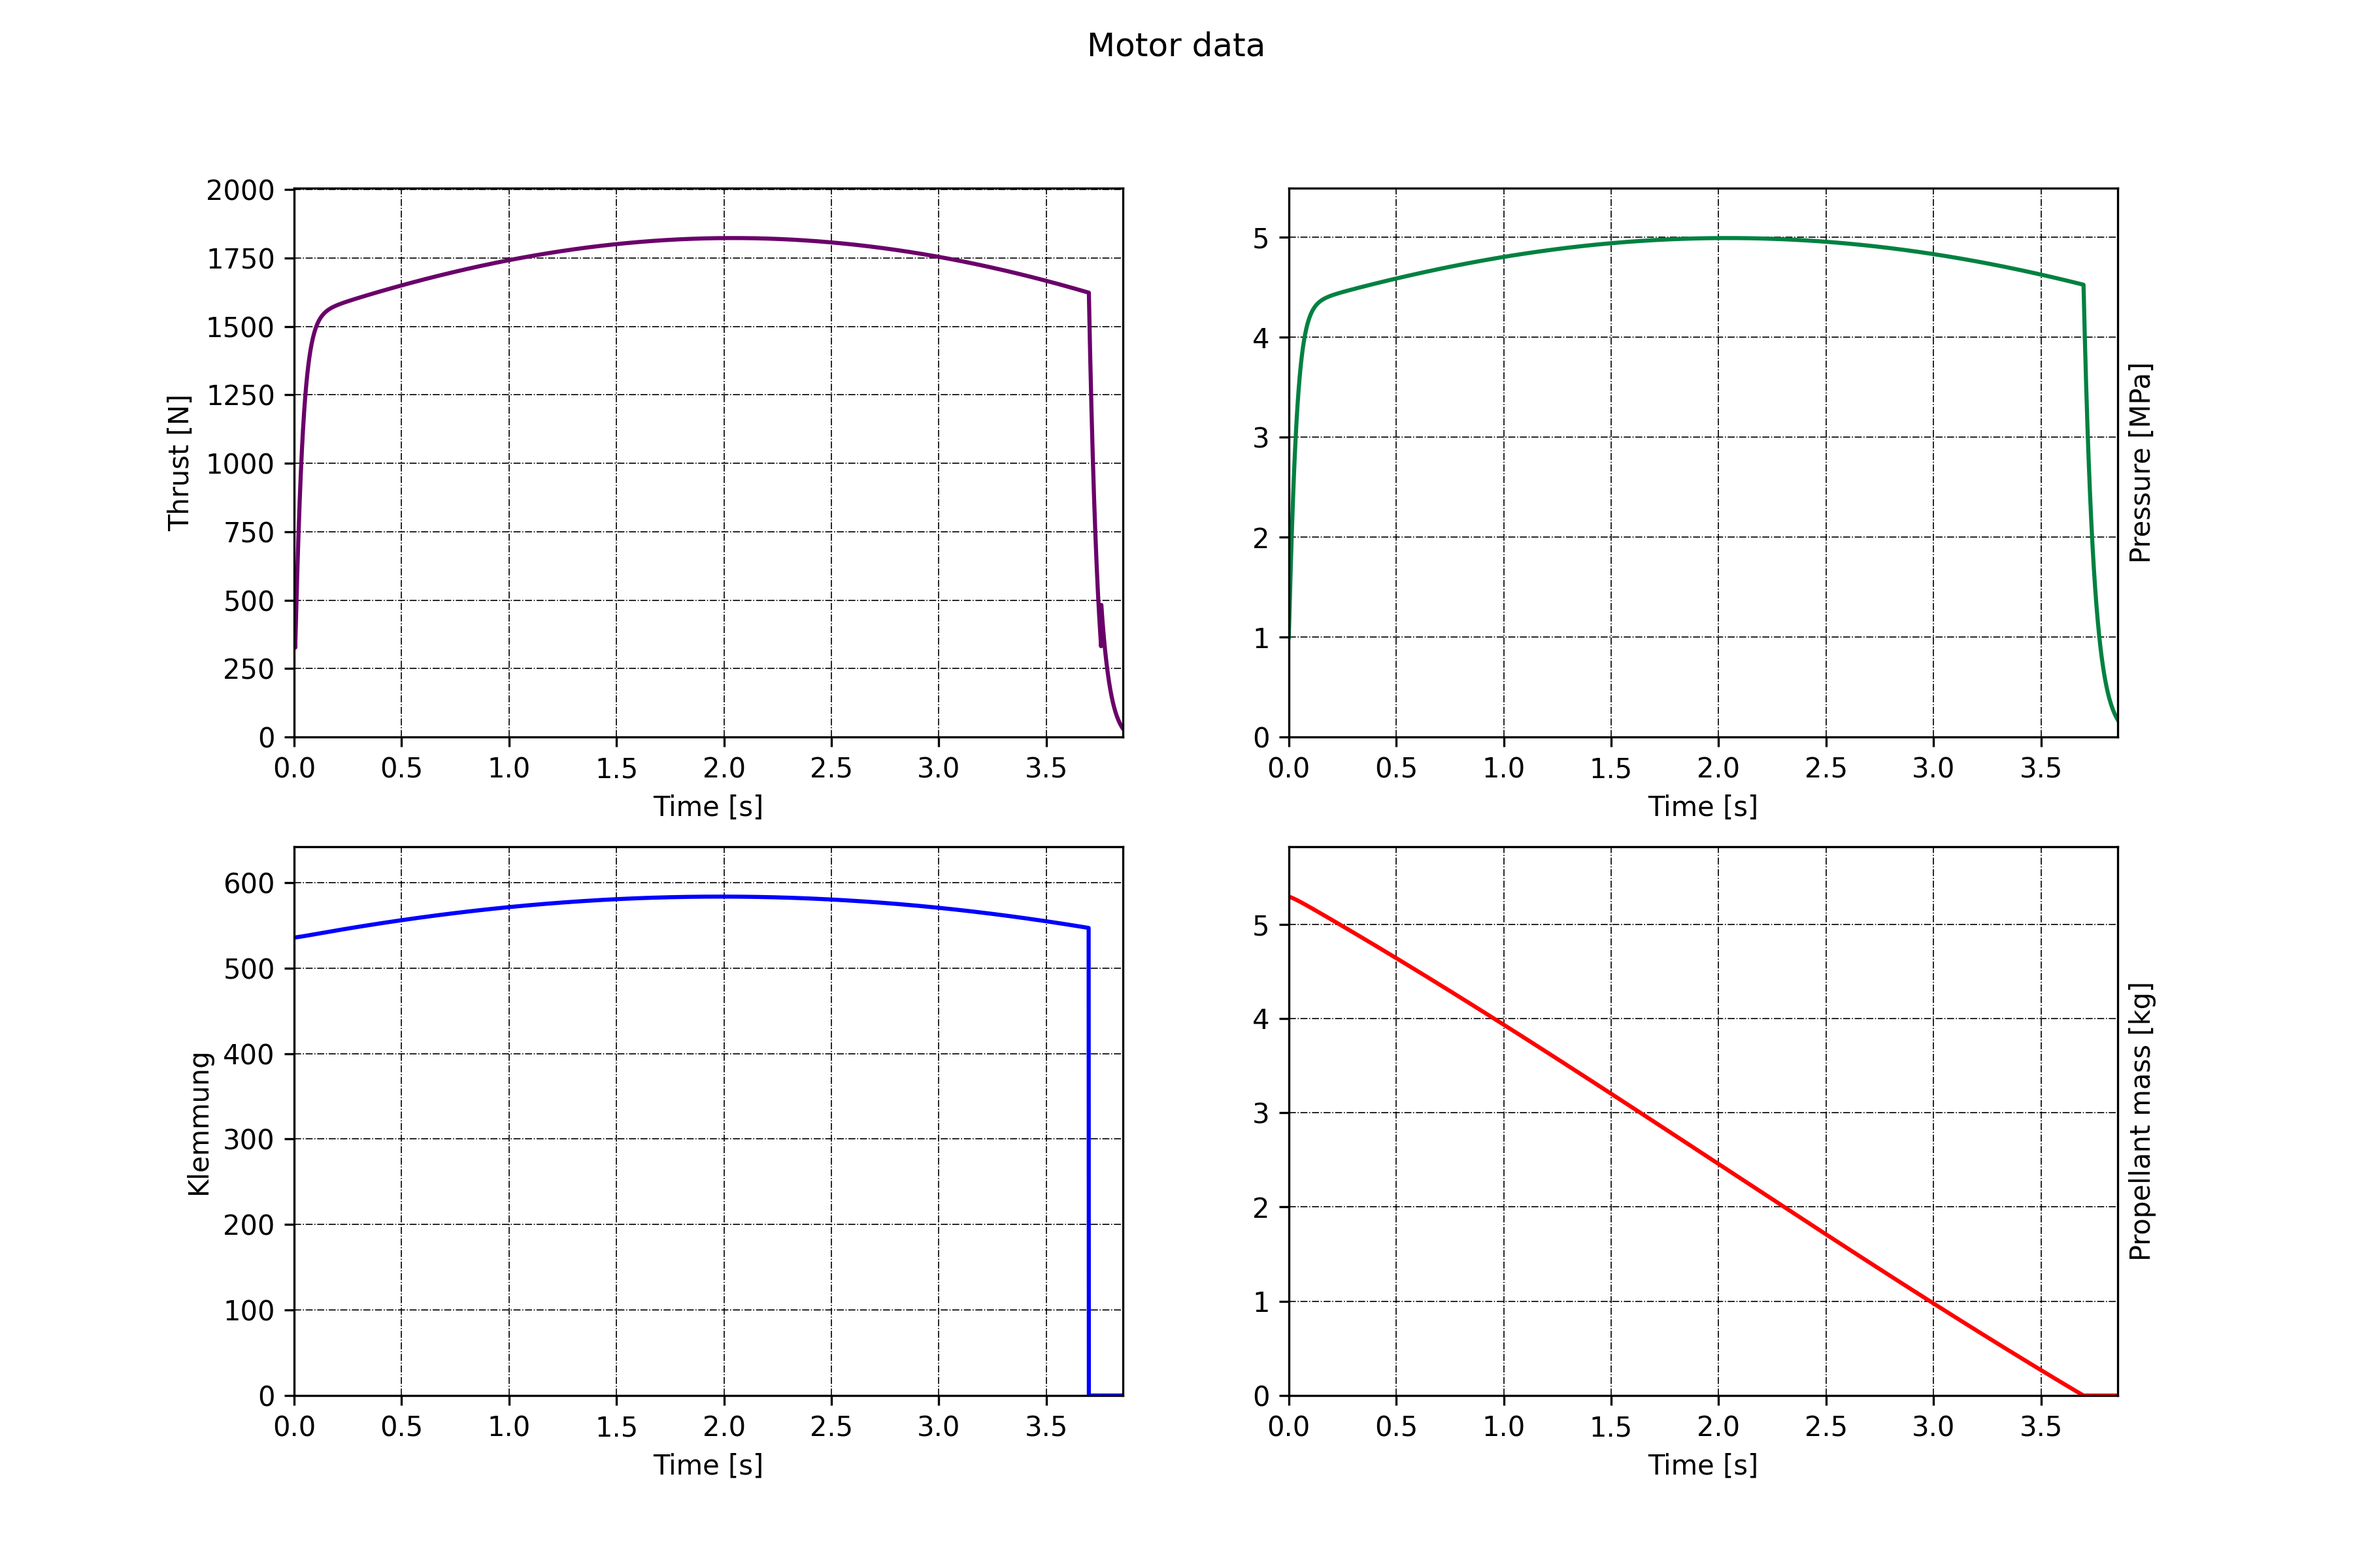
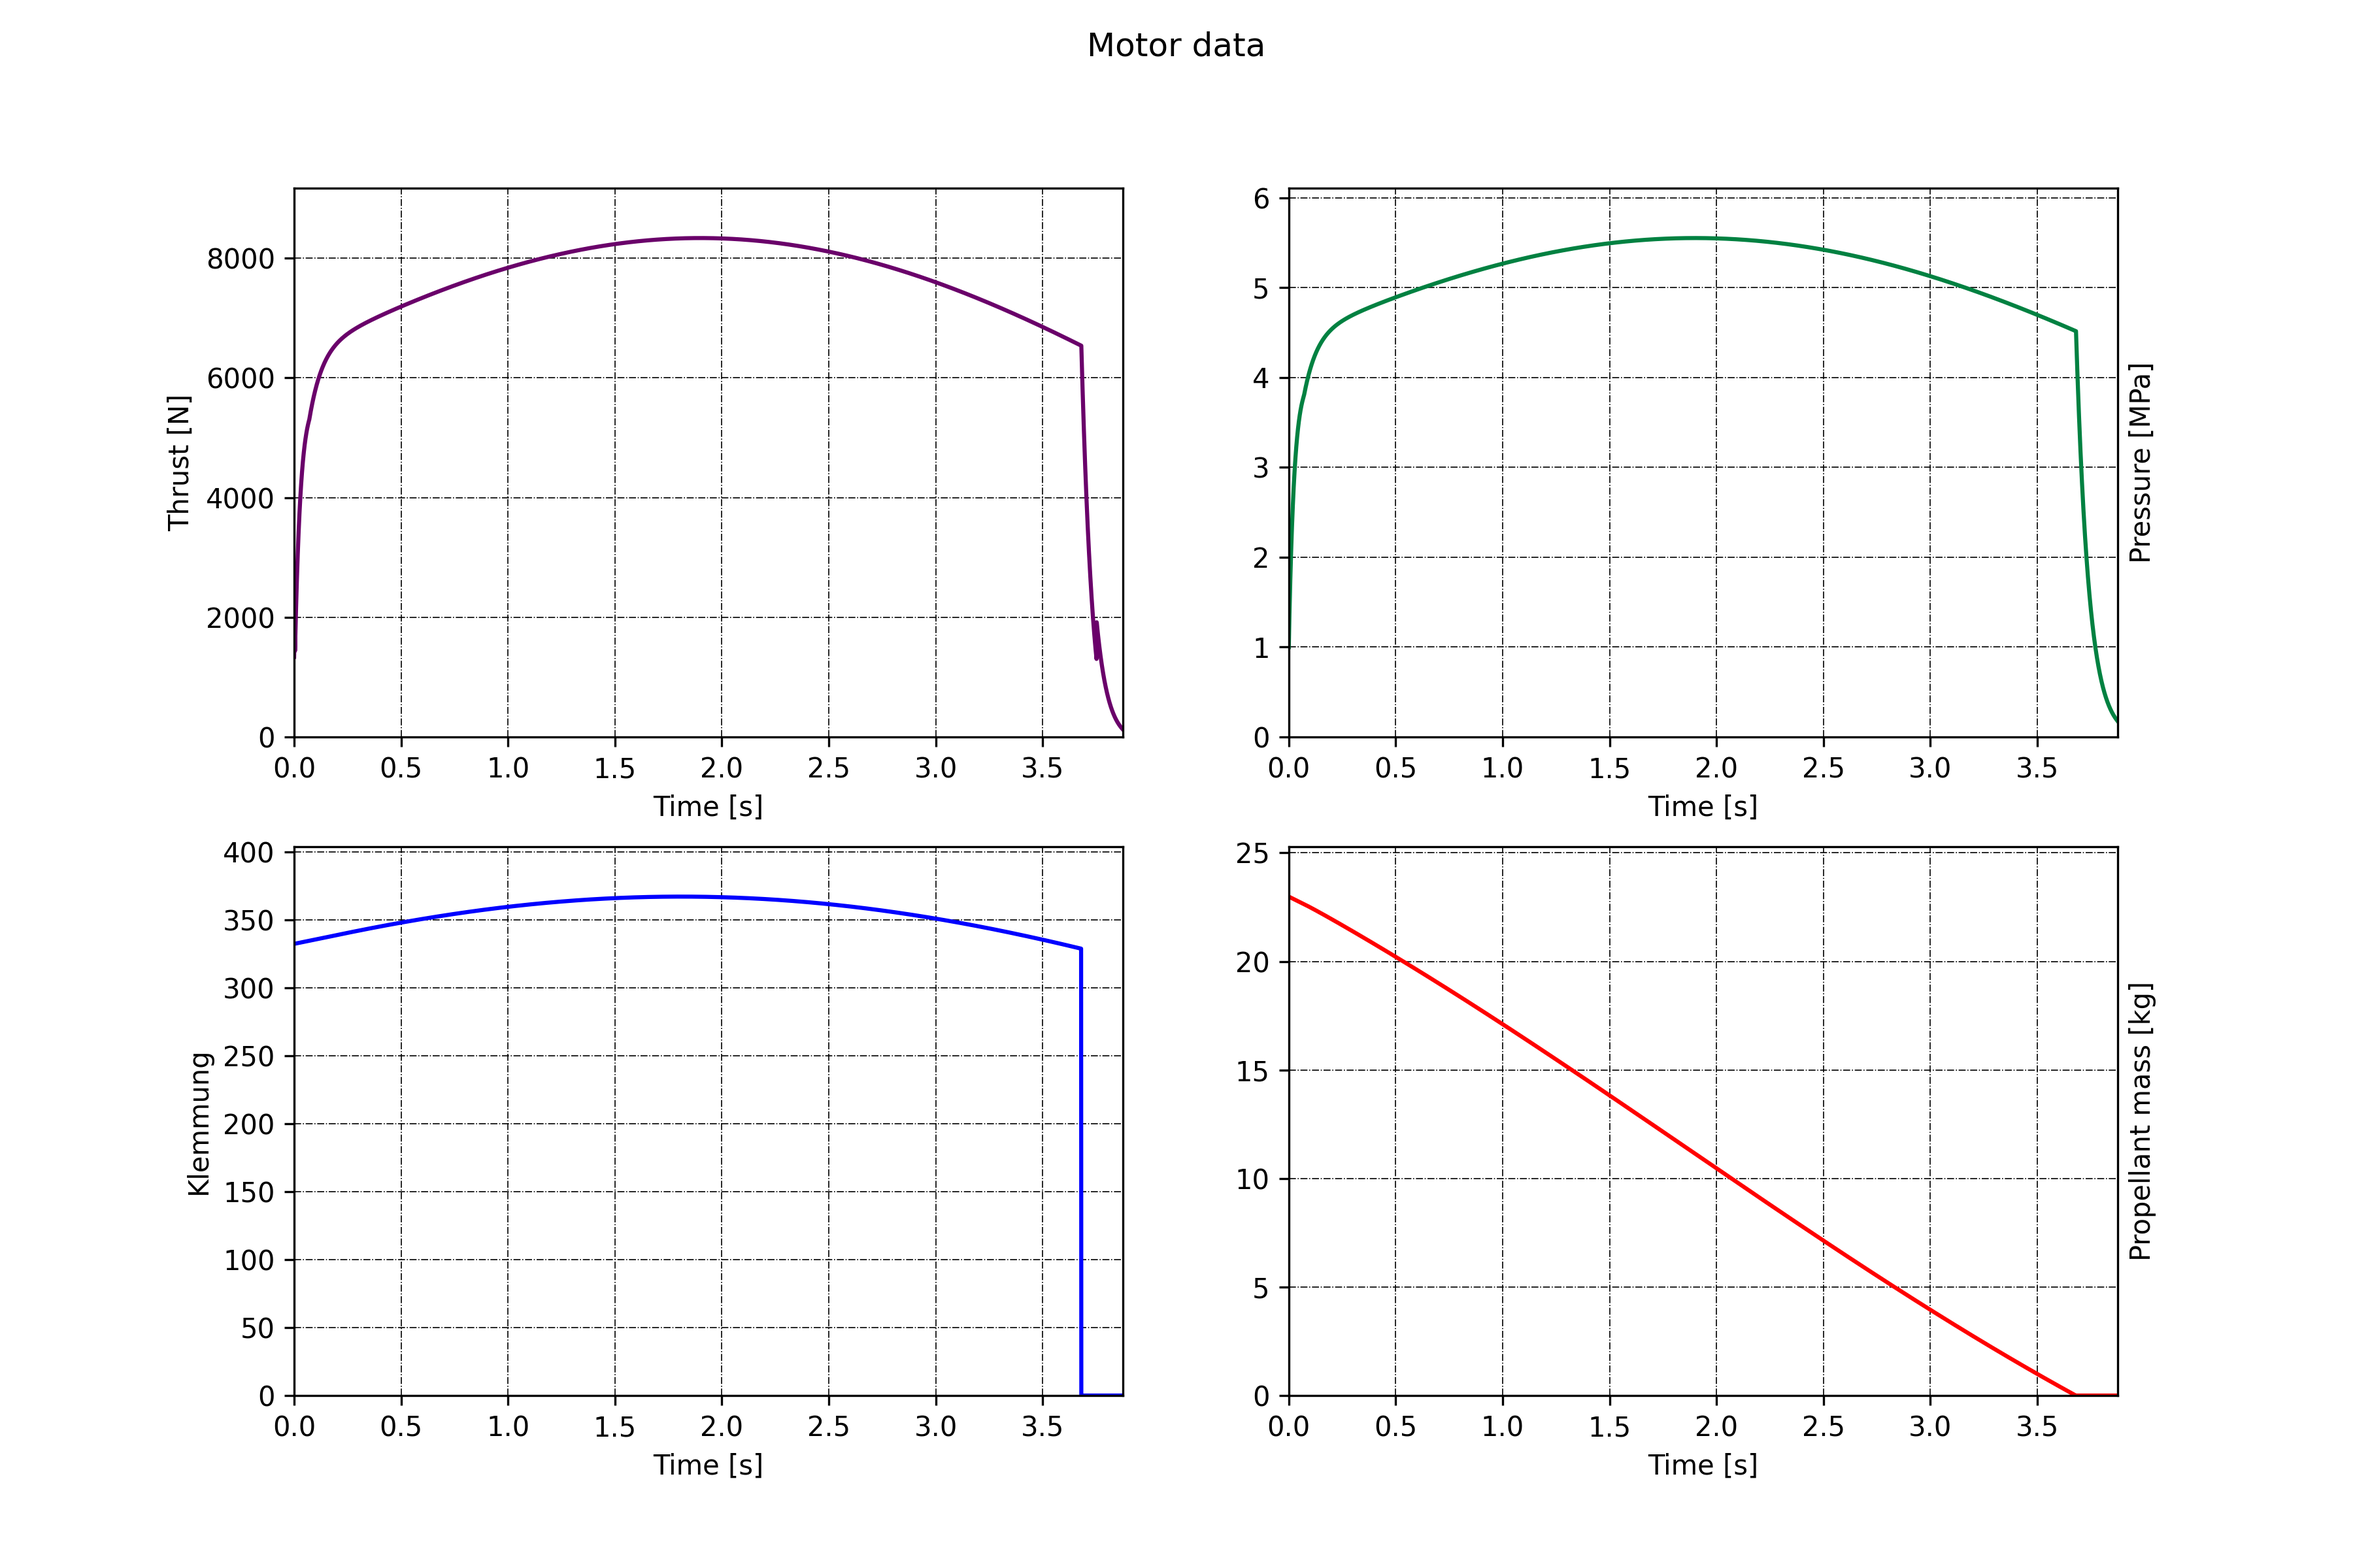
Version Alpha

diff --git a/SRM Solver.py b/SRM Solver.py
@@ -70,7 +70,7 @@ name = 'NV3'
 # Motor manufacturer (NO SPACES):
 manufacturer = 'LP'
 # Motor structural mass [kg]:
-m_motor = 0.78
+m_motor = 14.5
 
 # SIMULATION PARAMETERS INPUT
 # Web regression resolution:
@@ -86,15 +86,15 @@ sf = 4
 # Grain count
 N = 7
 # Grain external diameter [m]
-D_grain = 78e-3
+D_grain = 120e-3
 # Grains 1 to 'N' core diameter [m]
-D_core = np.array([38, 38, 38, 38, 38, 38]) * 1e-3
+D_core = np.array([51, 51, 51, 51, 51, 51, 51]) * 1e-3
 # Grains 1 to 'N' length [m]
-L_grain = np.array([140, 140, 140, 140, 140, 140]) * 1e-3
+L_grain = np.array([203, 203, 203, 203, 203, 203, 203]) * 1e-3
 
 # PROPELLANT CHARACTERISTICS INPUT
 # Propellant name
-propellant = 'kner'
+propellant = 'knsb'
 
 # EXTERNAL CONDITIONS
 # External temperature [K]
@@ -106,7 +106,7 @@ P_igniter = 1e6
 
 # NOZZLE DIMENSIONS
 # Throat diameter [m]
-D_throat = 18.5e-3
+D_throat = 37e-3
 # Nozzle material yield strength [Pa]
 Y_nozzle = 215e6
 # Nozzle divergent and convergent angle [degrees]
@@ -117,11 +117,11 @@ C2 = 0.00000
 
 # COMBUSTION CHAMBER
 # Chamber inside diameter [m]
-D_in = 82.55e-3
+D_in = 139.7e-3
 # Chamber outside diameter [m]
-D_out = 88.9e-3
+D_out = 152.4e-3
 # Grain spacing [m]
-grain_spacing = 10e-3
+grain_spacing = 15e-3
 # Chamber yield strength [Pa]
 Y_cc = 240e6
 # Bulkhead yield strength [Pa]
@@ -361,9 +361,7 @@ else:
 print(' Mean Kn: %.4f' % np.mean(Kn))
 print(' Initial to final Kn ratio: %.4f' % (A_burn[0] / A_burn[-1]))
 print(f' Volumetric efficiency: {(V_prop_CP[0] * 100 / V_empty):.2f} %')
-
-for i in range(N):
-    print(' Grain #%i length for neutral profile: %.4f' % ((i + 1), optimal_grain_length[i]))
+print(f' Grain length for neutral profile vector: {optimal_grain_length}')
 
 print(' Burn profile: ' + burn_profile)
 print(f' Initial port-to-throat (grain #{N:.0f}): {initial_port_to_throat:.2f}')
